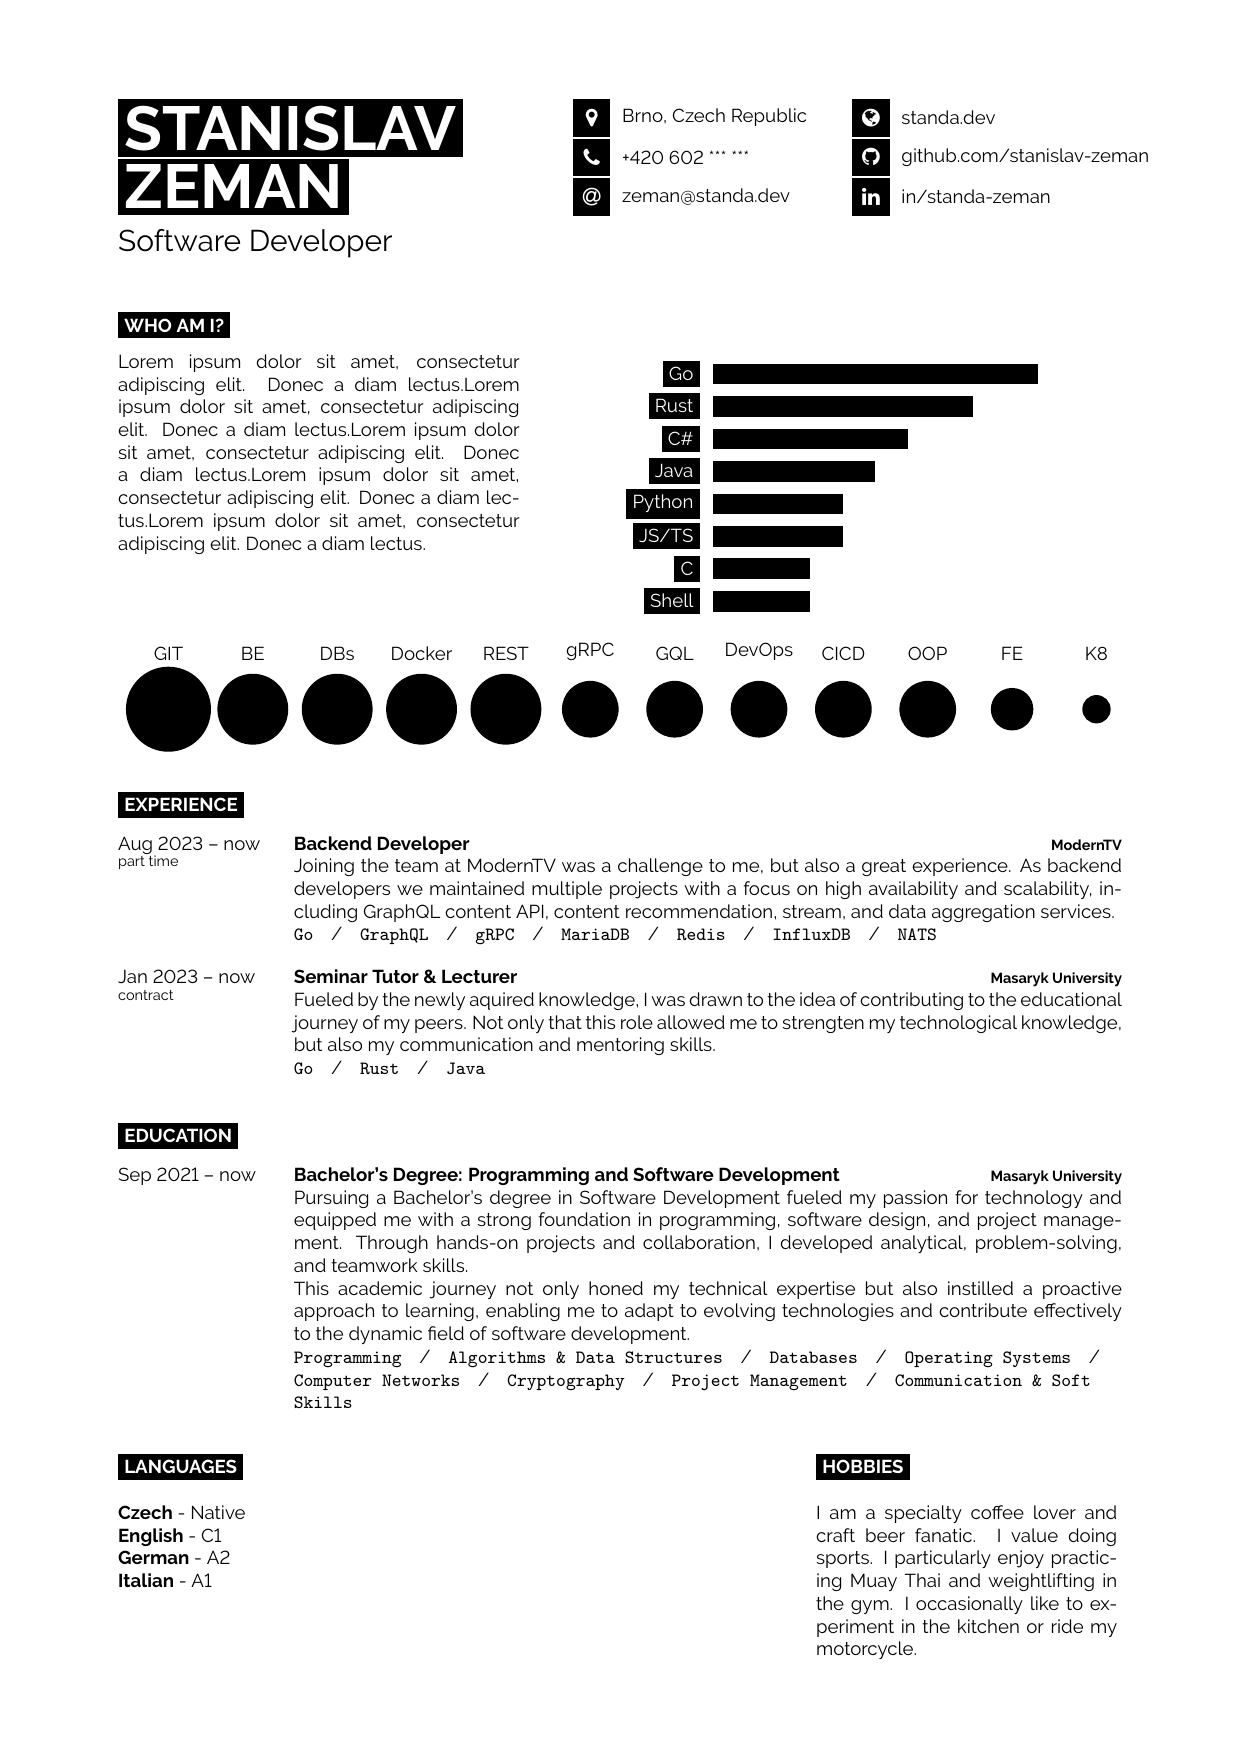
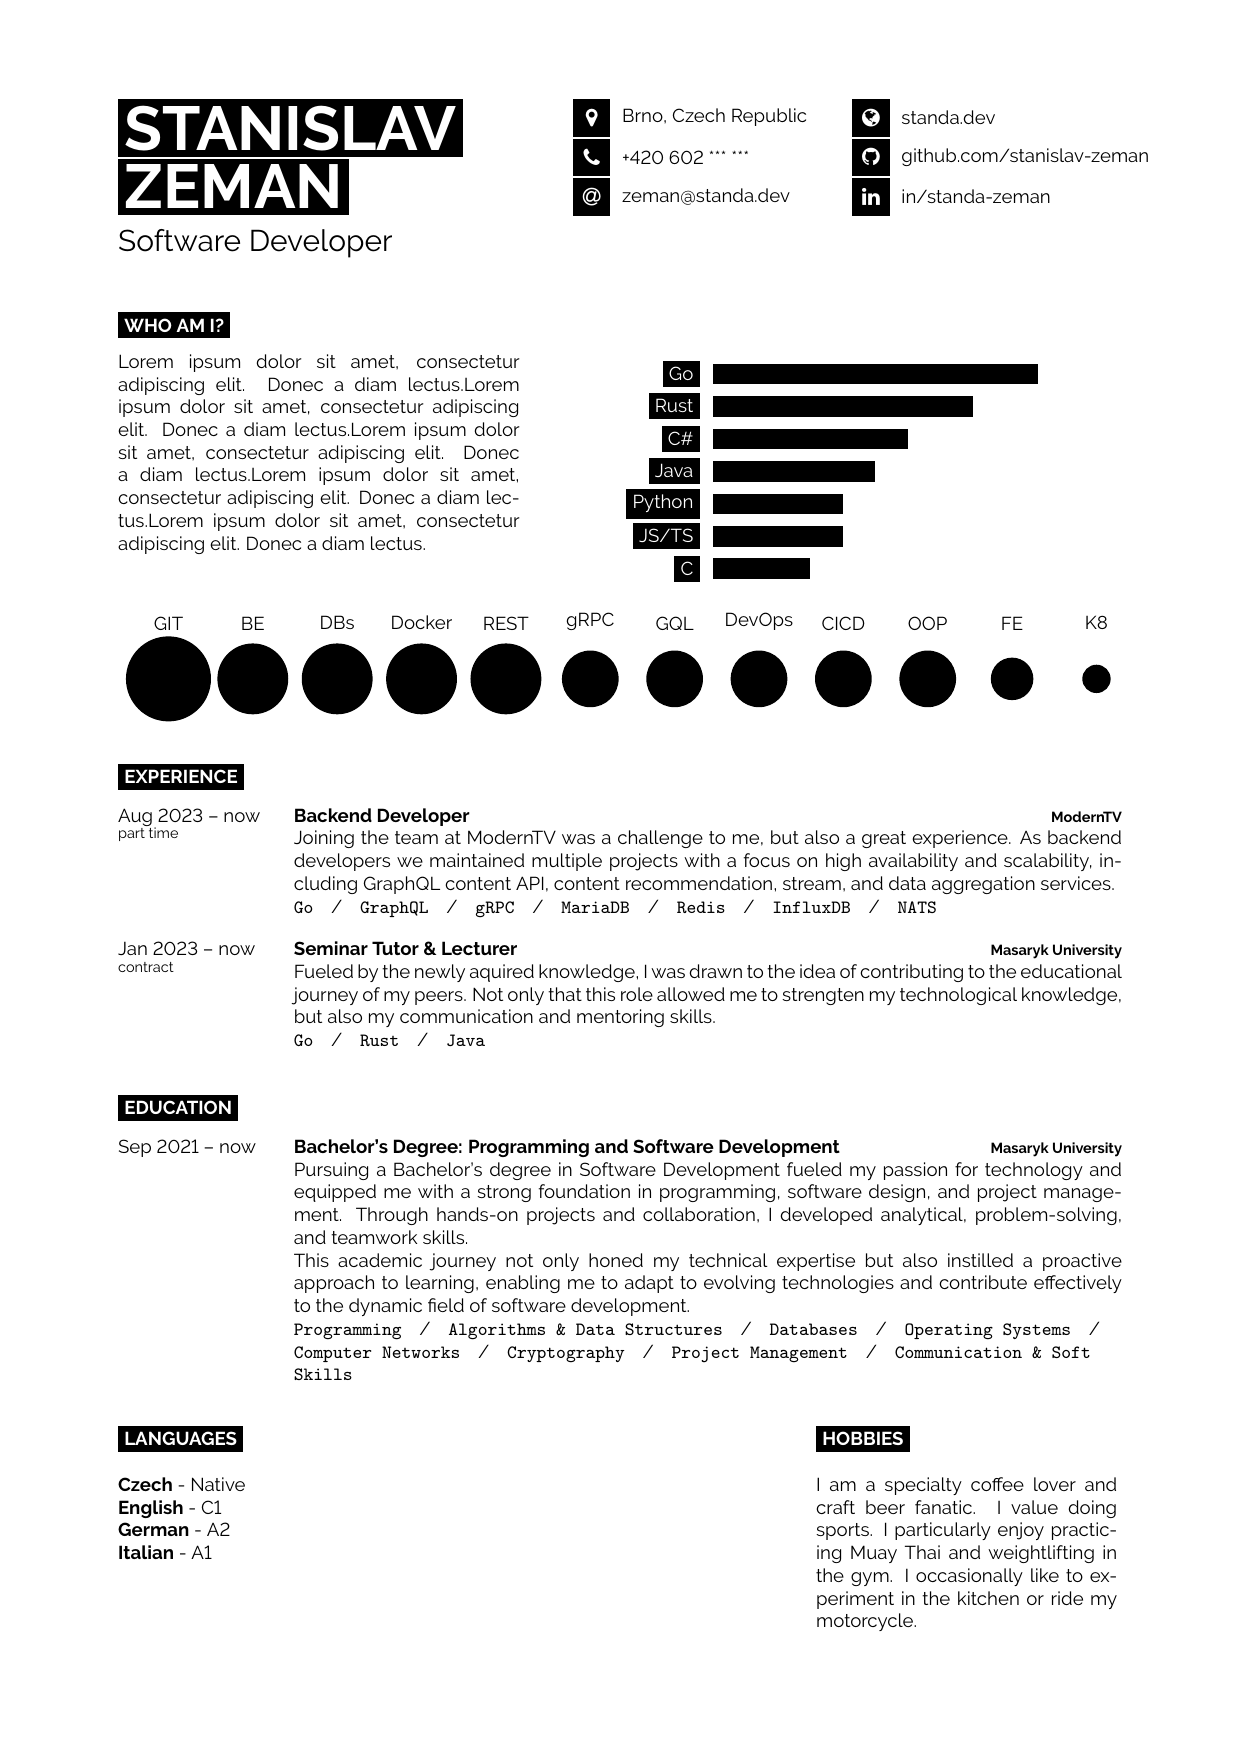
feat: remove shell from languages

diff --git a/cv.tex b/cv.tex
@@ -47,7 +47,6 @@
 		\baritem{Python}{40}
 		\baritem{JS/TS}{40}
 		\baritem{C}{30}
-		\baritem{Shell}{30}
 	\end{barchart}
 \end{minipage}
 
